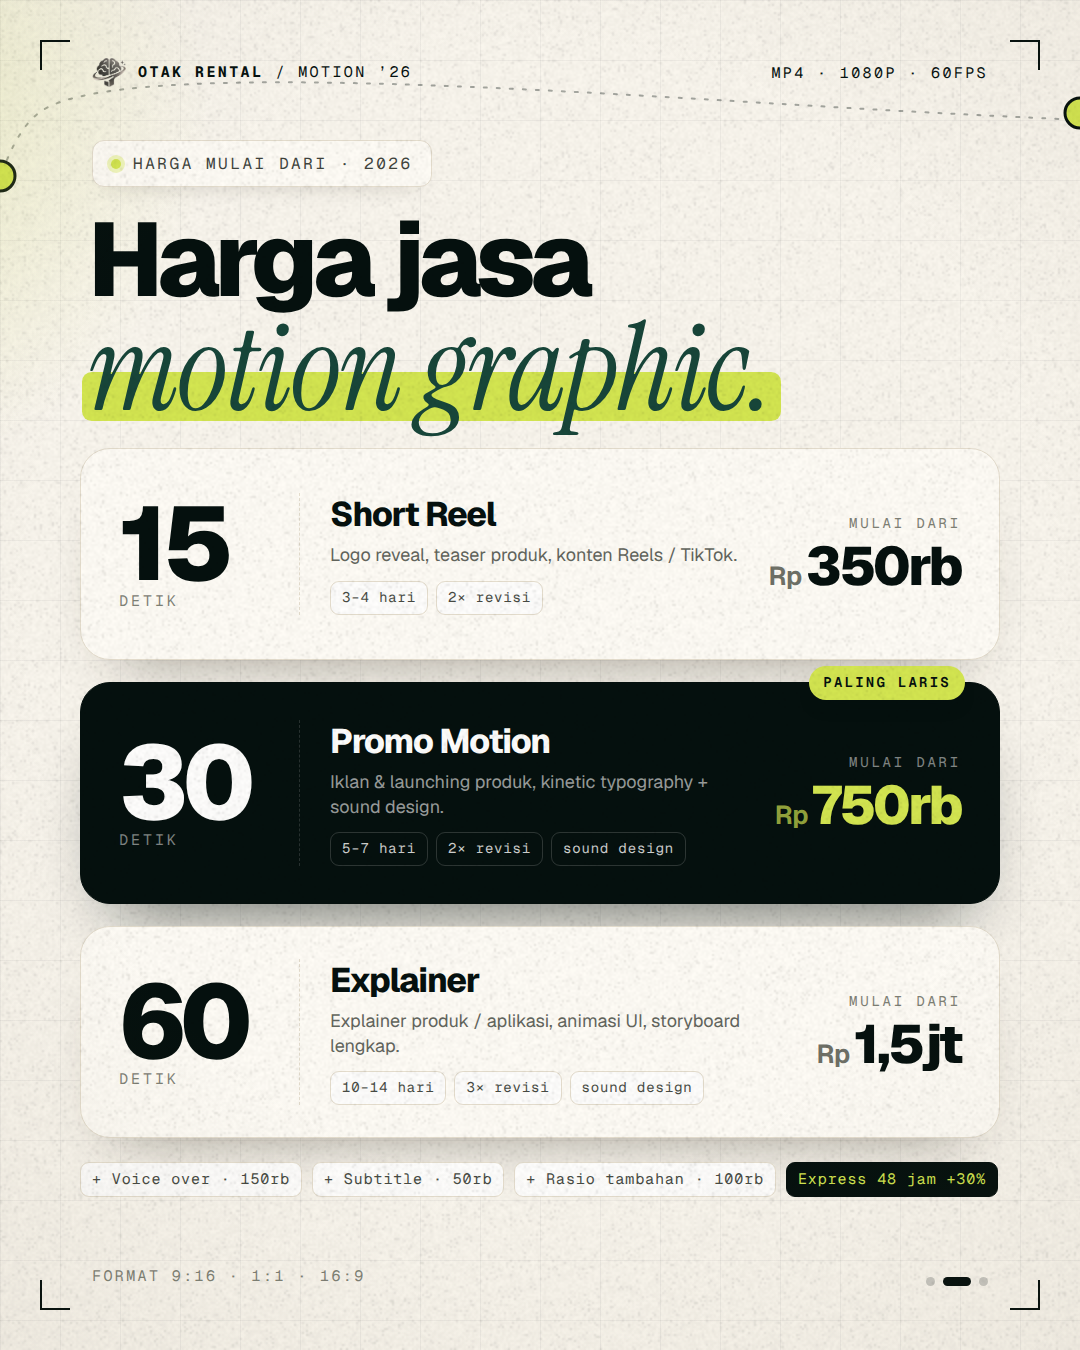
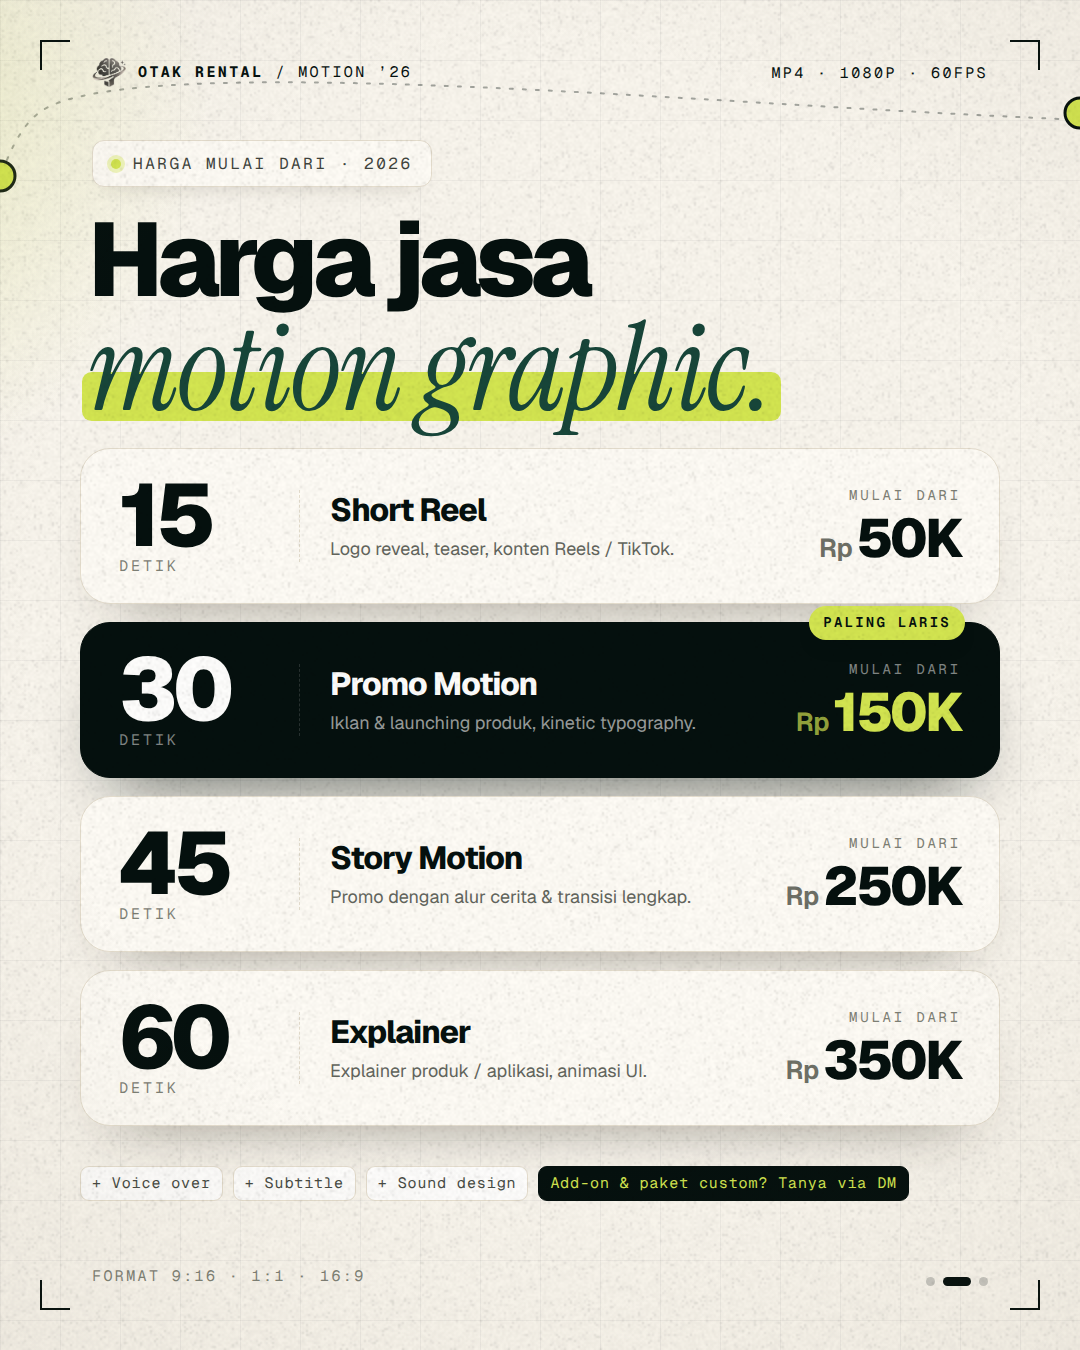
fix(instagram): update price lists to official prices
Motion: 15s 50K, 30s 150K, 45s 250K, 60s 350K.
Website: Landing Page 250K, Business Website 750K, Company Profile 750K,
Web System/Dashboard 2JT, Custom Web App 3JT, SaaS MVP 5JT.

Claude-Session: https://claude.ai/code/session_013HbXQmfhygRpYpVaXPNATB

Changed region(s): [[0.0611, 0.3422, 0.9472, 0.9022]]

diff --git a/motion/instagram/carousel.html b/motion/instagram/carousel.html
@@ -61,6 +61,7 @@ body{width:3240px;height:1350px}
 .card.dark{background:var(--ink);border-color:var(--ink);color:#fff;box-shadow:0 40px 70px -34px rgba(5,16,14,.6)}
 .tg{display:inline-block;font-family:"Geist Mono",monospace;font-size:14px;letter-spacing:.06em;border-radius:9px;padding:7px 11px;border:1px solid var(--line);background:#fff;color:#474b44;white-space:nowrap}
 .dark .tg{background:transparent;border-color:rgba(255,255,255,.16);color:rgba(255,255,255,.82)}
+.badge-in{font-family:"Geist Mono",monospace;font-size:12px;font-weight:600;letter-spacing:.16em;background:var(--lime);color:var(--ink);padding:5px 10px;border-radius:999px}
 .badge{position:absolute;top:-17px;right:34px;background:var(--lime);color:var(--ink);font-family:"Geist Mono",monospace;font-size:14px;font-weight:600;letter-spacing:.16em;padding:8px 14px;border-radius:999px;box-shadow:0 10px 20px -10px rgba(5,16,14,.4)}
 
 /* price rows */
@@ -195,39 +196,44 @@ body{width:3240px;height:1350px}
       <div class="sans" style="font-size:104px">Harga jasa</div>
       <div class="ser" style="font-size:122px;margin-top:2px"><span class="mk">motion graphic.</span></div>
     </div>
-    <div class="card tier" style="left:80px;top:448px;width:920px;height:212px">
-      <div class="dur"><b>15</b><span>detik</span></div>
+    <div class="card tier" style="left:80px;top:448px;width:920px;height:156px">
+      <div class="dur"><b style="font-size:88px">15</b><span>detik</span></div>
       <div class="mid">
-        <div class="t">Short Reel</div>
-        <div class="d">Logo reveal, teaser produk, konten Reels / TikTok.</div>
-        <div class="meta"><span class="tg">3–4 hari</span><span class="tg">2× revisi</span></div>
+        <div class="t" style="font-size:32px">Short Reel</div>
+        <div class="d" style="font-size:18px">Logo reveal, teaser, konten Reels / TikTok.</div>
       </div>
-      <div class="pr"><div class="from">MULAI DARI</div><div class="price"><small>Rp</small>350rb</div></div>
+      <div class="pr"><div class="from">MULAI DARI</div><div class="price"><small>Rp</small>50K</div></div>
     </div>
-    <div class="card dark tier" style="left:80px;top:682px;width:920px;height:222px">
+    <div class="card dark tier" style="left:80px;top:622px;width:920px;height:156px">
       <span class="badge">PALING LARIS</span>
-      <div class="dur"><b>30</b><span>detik</span></div>
+      <div class="dur"><b style="font-size:88px">30</b><span>detik</span></div>
       <div class="mid">
-        <div class="t">Promo Motion</div>
-        <div class="d">Iklan & launching produk, kinetic typography + sound design.</div>
-        <div class="meta"><span class="tg">5–7 hari</span><span class="tg">2× revisi</span><span class="tg">sound design</span></div>
+        <div class="t" style="font-size:32px">Promo Motion</div>
+        <div class="d" style="font-size:18px">Iklan &amp; launching produk, kinetic typography.</div>
       </div>
-      <div class="pr"><div class="from">MULAI DARI</div><div class="price"><small>Rp</small>750rb</div></div>
+      <div class="pr"><div class="from">MULAI DARI</div><div class="price"><small>Rp</small>150K</div></div>
     </div>
-    <div class="card tier" style="left:80px;top:926px;width:920px;height:212px">
-      <div class="dur"><b>60</b><span>detik</span></div>
+    <div class="card tier" style="left:80px;top:796px;width:920px;height:156px">
+      <div class="dur"><b style="font-size:88px">45</b><span>detik</span></div>
       <div class="mid">
-        <div class="t">Explainer</div>
-        <div class="d">Explainer produk / aplikasi, animasi UI, storyboard lengkap.</div>
-        <div class="meta"><span class="tg">10–14 hari</span><span class="tg">3× revisi</span><span class="tg">sound design</span></div>
+        <div class="t" style="font-size:32px">Story Motion</div>
+        <div class="d" style="font-size:18px">Promo dengan alur cerita &amp; transisi lengkap.</div>
       </div>
-      <div class="pr"><div class="from">MULAI DARI</div><div class="price"><small>Rp</small>1,5jt</div></div>
+      <div class="pr"><div class="from">MULAI DARI</div><div class="price"><small>Rp</small>250K</div></div>
     </div>
-    <div class="abs" style="left:80px;top:1162px;width:920px;display:flex;gap:10px;flex-wrap:wrap">
-      <span class="tg" style="font-size:15px">+ Voice over · 150rb</span>
-      <span class="tg" style="font-size:15px">+ Subtitle · 50rb</span>
-      <span class="tg" style="font-size:15px">+ Rasio tambahan · 100rb</span>
-      <span class="tg" style="font-size:15px;background:var(--ink);color:var(--lime);border-color:var(--ink)">Express 48 jam +30%</span>
+    <div class="card tier" style="left:80px;top:970px;width:920px;height:156px">
+      <div class="dur"><b style="font-size:88px">60</b><span>detik</span></div>
+      <div class="mid">
+        <div class="t" style="font-size:32px">Explainer</div>
+        <div class="d" style="font-size:18px">Explainer produk / aplikasi, animasi UI.</div>
+      </div>
+      <div class="pr"><div class="from">MULAI DARI</div><div class="price"><small>Rp</small>350K</div></div>
+    </div>
+    <div class="abs" style="left:80px;top:1166px;width:920px;display:flex;gap:10px;flex-wrap:nowrap">
+      <span class="tg" style="font-size:15px">+ Voice over</span>
+      <span class="tg" style="font-size:15px">+ Subtitle</span>
+      <span class="tg" style="font-size:15px">+ Sound design</span>
+      <span class="tg" style="font-size:15px;background:var(--ink);color:var(--lime);border-color:var(--ink)">Add-on &amp; paket custom? Tanya via DM</span>
     </div>
     <div class="hud tl"><img src="../assets/logo-icon-dark.png" alt=""><b>OTAK RENTAL</b><span>/ Motion ’26</span></div>
     <div class="hud tr">MP4 · 1080p · 60fps</div>
@@ -339,42 +345,53 @@ body{width:3240px;height:1350px}
       <div class="sans" style="font-size:104px">Harga jasa</div>
       <div class="ser" style="font-size:122px;margin-top:2px"><span class="mk">website &amp; SaaS.</span></div>
     </div>
-    <div class="card tier" style="left:80px;top:444px;width:920px;height:166px">
-      <div class="ico"><svg width="28" height="28" viewBox="0 0 24 24" fill="none" stroke="#D4E751" stroke-width="2.2" stroke-linecap="round" stroke-linejoin="round"><rect width="20" height="16" x="2" y="4" rx="2"/><path d="M2 9h20"/></svg></div>
+    <div class="card tier" style="left:80px;top:444px;width:920px;height:108px;border-radius:24px;padding:0 32px;gap:24px">
+      <div class="ico" style="width:52px;height:52px;border-radius:15px"><svg width="26" height="26" viewBox="0 0 24 24" fill="none" stroke="#D4E751" stroke-width="2.2" stroke-linecap="round" stroke-linejoin="round"><rect width="20" height="16" x="2" y="4" rx="2"/><path d="M2 9h20"/></svg></div>
       <div class="mid" style="border-left:0;padding-left:0">
-        <div class="t" style="font-size:31px">Landing Page</div>
-        <div class="d" style="font-size:17px">1 halaman, responsif, SEO dasar, tombol WhatsApp.</div>
-        <div class="meta" style="margin-top:9px"><span class="tg">± 5–7 hari</span></div>
+        <div class="t" style="font-size:28px;display:flex;align-items:center;gap:12px">Landing Page</div>
+        <div class="d" style="font-size:16px;margin-top:4px">1 halaman, responsif, SEO dasar, tombol WhatsApp.</div>
       </div>
-      <div class="pr"><div class="from">MULAI DARI</div><div class="price" style="font-size:50px"><small>Rp</small>1,5jt</div></div>
+      <div class="pr"><div class="from" style="font-size:12px">MULAI DARI</div><div class="price" style="font-size:44px;margin-top:4px"><small style="font-size:22px">Rp</small>250K</div></div>
     </div>
-    <div class="card tier" style="left:80px;top:626px;width:920px;height:166px">
-      <div class="ico"><svg width="28" height="28" viewBox="0 0 24 24" fill="none" stroke="#D4E751" stroke-width="2.2" stroke-linecap="round" stroke-linejoin="round"><path d="M12.83 2.18a2 2 0 0 0-1.66 0L2.6 6.08a1 1 0 0 0 0 1.83l8.58 3.91a2 2 0 0 0 1.66 0l8.58-3.9a1 1 0 0 0 0-1.83Z"/><path d="m22 17.65-9.17 4.16a2 2 0 0 1-1.66 0L2 17.65"/><path d="m22 12.65-9.17 4.16a2 2 0 0 1-1.66 0L2 12.65"/></svg></div>
+    <div class="card tier" style="left:80px;top:566px;width:920px;height:108px;border-radius:24px;padding:0 32px;gap:24px">
+      <div class="ico" style="width:52px;height:52px;border-radius:15px"><svg width="26" height="26" viewBox="0 0 24 24" fill="none" stroke="#D4E751" stroke-width="2.2" stroke-linecap="round" stroke-linejoin="round"><path d="M3 9h18l-1.5-5h-15Z"/><path d="M5 9v11h14V9"/><path d="M10 20v-6h4v6"/></svg></div>
       <div class="mid" style="border-left:0;padding-left:0">
-        <div class="t" style="font-size:31px">Website Bisnis</div>
-        <div class="d" style="font-size:17px">Company profile s/d 6 halaman + admin panel konten.</div>
-        <div class="meta" style="margin-top:9px"><span class="tg">± 2 minggu</span></div>
+        <div class="t" style="font-size:28px;display:flex;align-items:center;gap:12px">Business Website</div>
+        <div class="d" style="font-size:16px;margin-top:4px">Website usaha multi-halaman, siap tampil di Google.</div>
       </div>
-      <div class="pr"><div class="from">MULAI DARI</div><div class="price" style="font-size:50px"><small>Rp</small>3,5jt</div></div>
+      <div class="pr"><div class="from" style="font-size:12px">MULAI DARI</div><div class="price" style="font-size:44px;margin-top:4px"><small style="font-size:22px">Rp</small>750K</div></div>
     </div>
-    <div class="card dark tier" style="left:80px;top:812px;width:920px;height:176px">
-      <span class="badge">PALING LARIS</span>
-      <div class="ico"><svg width="28" height="28" viewBox="0 0 24 24" fill="none" stroke="#05100E" stroke-width="2.2" stroke-linecap="round" stroke-linejoin="round"><path d="M3 3v18h18"/><path d="M18 17V9"/><path d="M13 17V5"/><path d="M8 17v-3"/></svg></div>
+    <div class="card tier" style="left:80px;top:688px;width:920px;height:108px;border-radius:24px;padding:0 32px;gap:24px">
+      <div class="ico" style="width:52px;height:52px;border-radius:15px"><svg width="26" height="26" viewBox="0 0 24 24" fill="none" stroke="#D4E751" stroke-width="2.2" stroke-linecap="round" stroke-linejoin="round"><rect width="16" height="20" x="4" y="2" rx="2"/><path d="M9 22v-4h6v4"/><path d="M8 6h.01M16 6h.01M12 6h.01M12 10h.01M12 14h.01M16 10h.01M16 14h.01M8 10h.01M8 14h.01"/></svg></div>
       <div class="mid" style="border-left:0;padding-left:0">
-        <div class="t" style="font-size:31px">Web App / Sistem</div>
-        <div class="d" style="font-size:17px">Kasir, inventori, booking, dashboard multi-role.</div>
-        <div class="meta" style="margin-top:9px"><span class="tg">± 3–5 minggu</span><span class="tg">database + login</span></div>
+        <div class="t" style="font-size:28px;display:flex;align-items:center;gap:12px">Company Profile</div>
+        <div class="d" style="font-size:16px;margin-top:4px">Profil perusahaan, layanan, portofolio &amp; kontak.</div>
       </div>
-      <div class="pr"><div class="from">MULAI DARI</div><div class="price" style="font-size:50px"><small>Rp</small>7,5jt</div></div>
+      <div class="pr"><div class="from" style="font-size:12px">MULAI DARI</div><div class="price" style="font-size:44px;margin-top:4px"><small style="font-size:22px">Rp</small>750K</div></div>
     </div>
-    <div class="card tier" style="left:80px;top:1008px;width:920px;height:166px">
-      <div class="ico"><svg width="28" height="28" viewBox="0 0 24 24" fill="none" stroke="#D4E751" stroke-width="2.2" stroke-linecap="round" stroke-linejoin="round"><path d="M17.5 19H9a7 7 0 1 1 6.71-9h1.79a4.5 4.5 0 1 1 0 9Z"/></svg></div>
+    <div class="card dark tier" style="left:80px;top:810px;width:920px;height:108px;border-radius:24px;padding:0 32px;gap:24px">
+      <div class="ico" style="width:52px;height:52px;border-radius:15px"><svg width="26" height="26" viewBox="0 0 24 24" fill="none" stroke="#05100E" stroke-width="2.2" stroke-linecap="round" stroke-linejoin="round"><path d="M3 3v18h18"/><path d="M18 17V9"/><path d="M13 17V5"/><path d="M8 17v-3"/></svg></div>
       <div class="mid" style="border-left:0;padding-left:0">
-        <div class="t" style="font-size:31px">SaaS MVP</div>
-        <div class="d" style="font-size:17px">Auth, langganan &amp; payment gateway, multi-tenant, cloud.</div>
-        <div class="meta" style="margin-top:9px"><span class="tg">± 6–8 minggu</span></div>
+        <div class="t" style="font-size:28px;display:flex;align-items:center;gap:12px">Web System / Dashboard <span class="badge-in">PALING LARIS</span></div>
+        <div class="d" style="font-size:16px;margin-top:4px">Kasir, inventori, booking, dashboard admin.</div>
       </div>
-      <div class="pr"><div class="from">MULAI DARI</div><div class="price" style="font-size:50px"><small>Rp</small>15jt</div></div>
+      <div class="pr"><div class="from" style="font-size:12px">MULAI DARI</div><div class="price" style="font-size:44px;margin-top:4px"><small style="font-size:22px">Rp</small>2JT</div></div>
+    </div>
+    <div class="card tier" style="left:80px;top:932px;width:920px;height:108px;border-radius:24px;padding:0 32px;gap:24px">
+      <div class="ico" style="width:52px;height:52px;border-radius:15px"><svg width="26" height="26" viewBox="0 0 24 24" fill="none" stroke="#D4E751" stroke-width="2.2" stroke-linecap="round" stroke-linejoin="round"><polyline points="16 18 22 12 16 6"/><polyline points="8 6 2 12 8 18"/></svg></div>
+      <div class="mid" style="border-left:0;padding-left:0">
+        <div class="t" style="font-size:28px;display:flex;align-items:center;gap:12px">Custom Web App</div>
+        <div class="d" style="font-size:16px;margin-top:4px">Aplikasi web sesuai alur bisnismu, multi-role.</div>
+      </div>
+      <div class="pr"><div class="from" style="font-size:12px">MULAI DARI</div><div class="price" style="font-size:44px;margin-top:4px"><small style="font-size:22px">Rp</small>3JT</div></div>
+    </div>
+    <div class="card tier" style="left:80px;top:1054px;width:920px;height:108px;border-radius:24px;padding:0 32px;gap:24px">
+      <div class="ico" style="width:52px;height:52px;border-radius:15px"><svg width="26" height="26" viewBox="0 0 24 24" fill="none" stroke="#D4E751" stroke-width="2.2" stroke-linecap="round" stroke-linejoin="round"><path d="M17.5 19H9a7 7 0 1 1 6.71-9h1.79a4.5 4.5 0 1 1 0 9Z"/></svg></div>
+      <div class="mid" style="border-left:0;padding-left:0">
+        <div class="t" style="font-size:28px;display:flex;align-items:center;gap:12px">SaaS MVP</div>
+        <div class="d" style="font-size:16px;margin-top:4px">Auth, langganan &amp; payment, multi-tenant, cloud.</div>
+      </div>
+      <div class="pr"><div class="from" style="font-size:12px">MULAI DARI</div><div class="price" style="font-size:44px;margin-top:4px"><small style="font-size:22px">Rp</small>5JT</div></div>
     </div>
     <div class="abs" style="left:80px;top:1196px;width:920px;display:flex;gap:9px;flex-wrap:nowrap">
       <span class="tg">Next.js</span><span class="tg">React</span><span class="tg">Node.js</span><span class="tg">PostgreSQL</span><span class="tg">Prisma</span><span class="tg">Docker</span>
